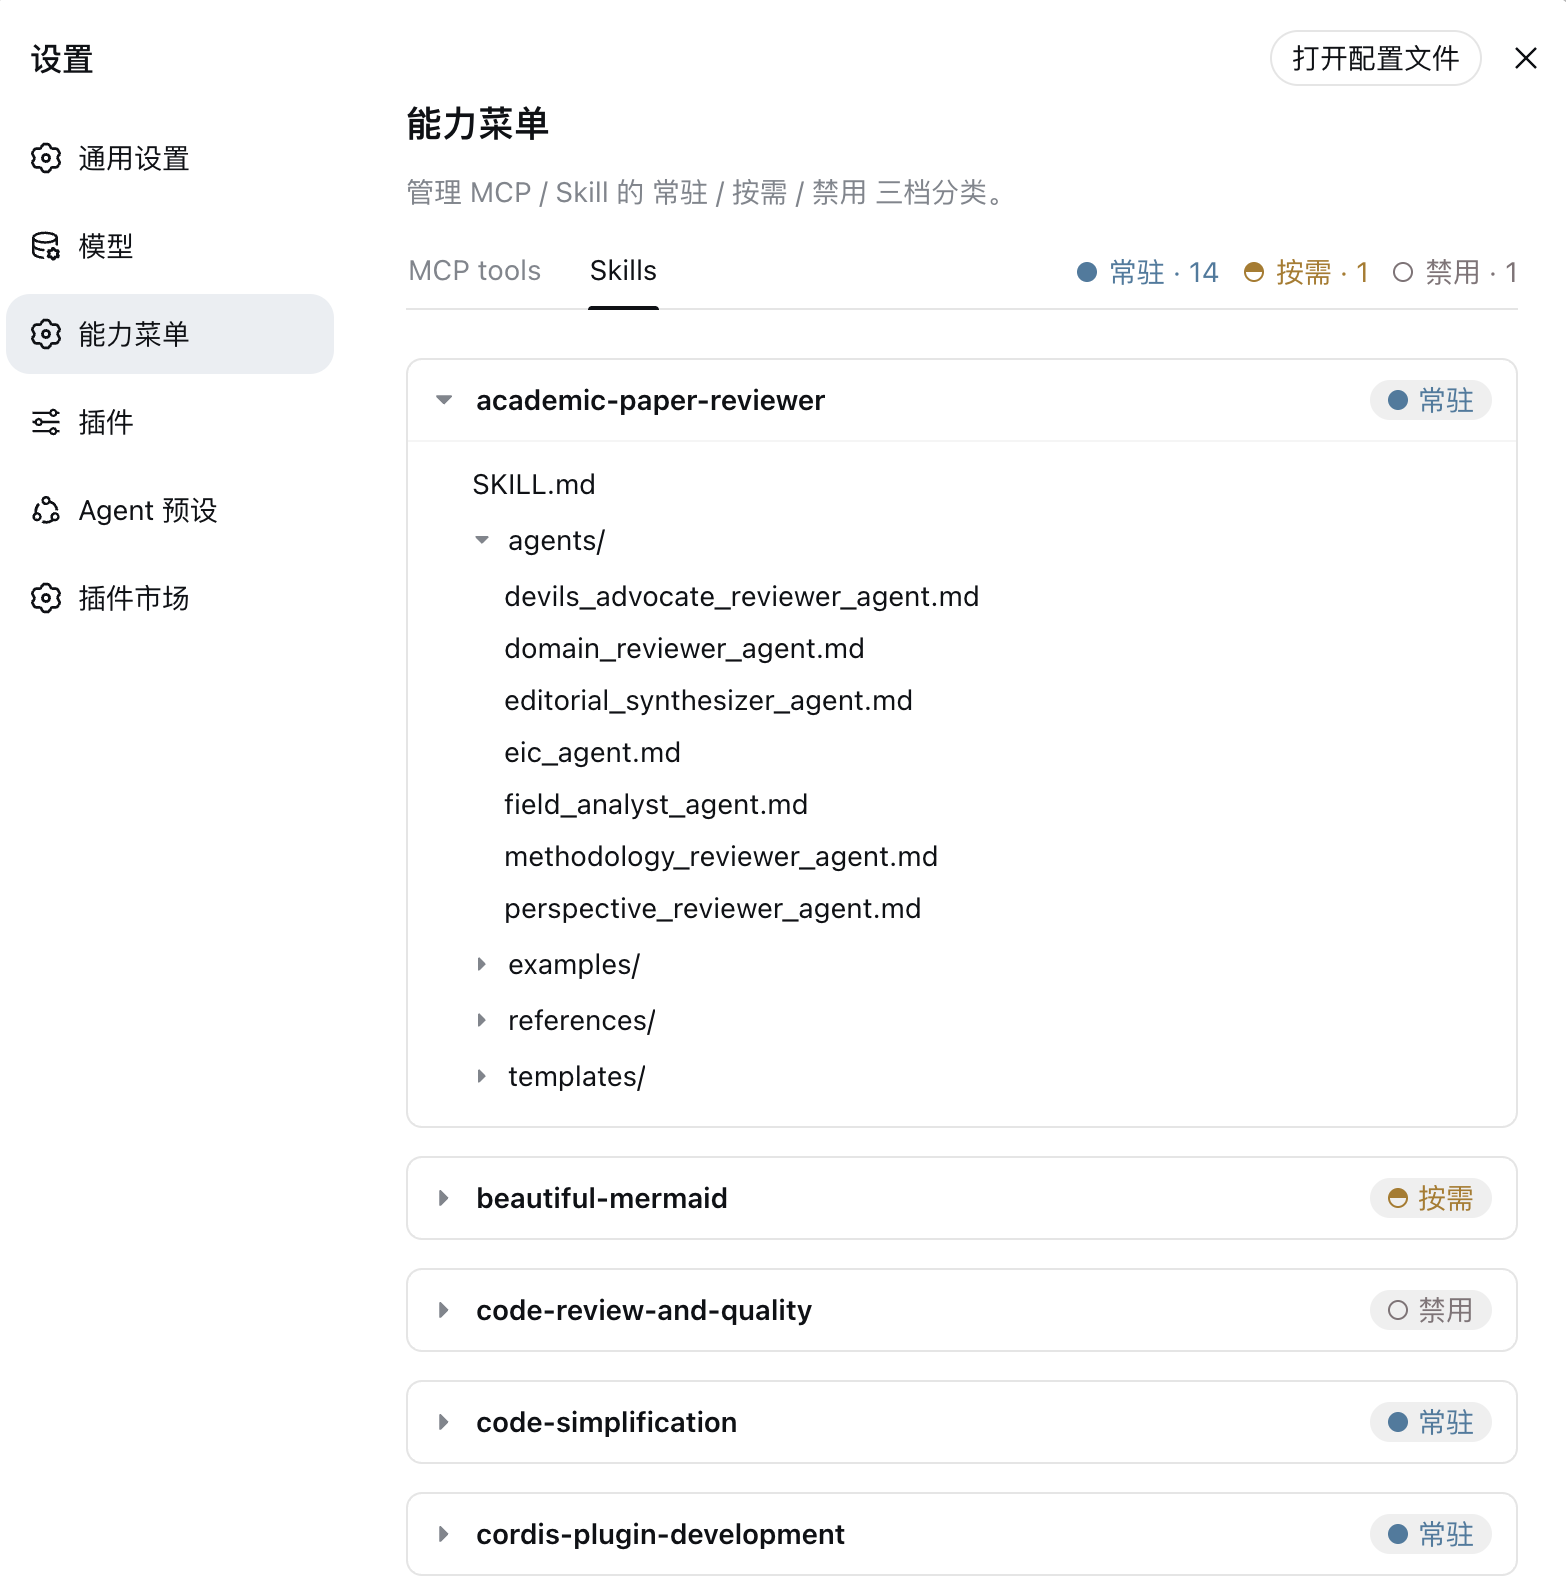
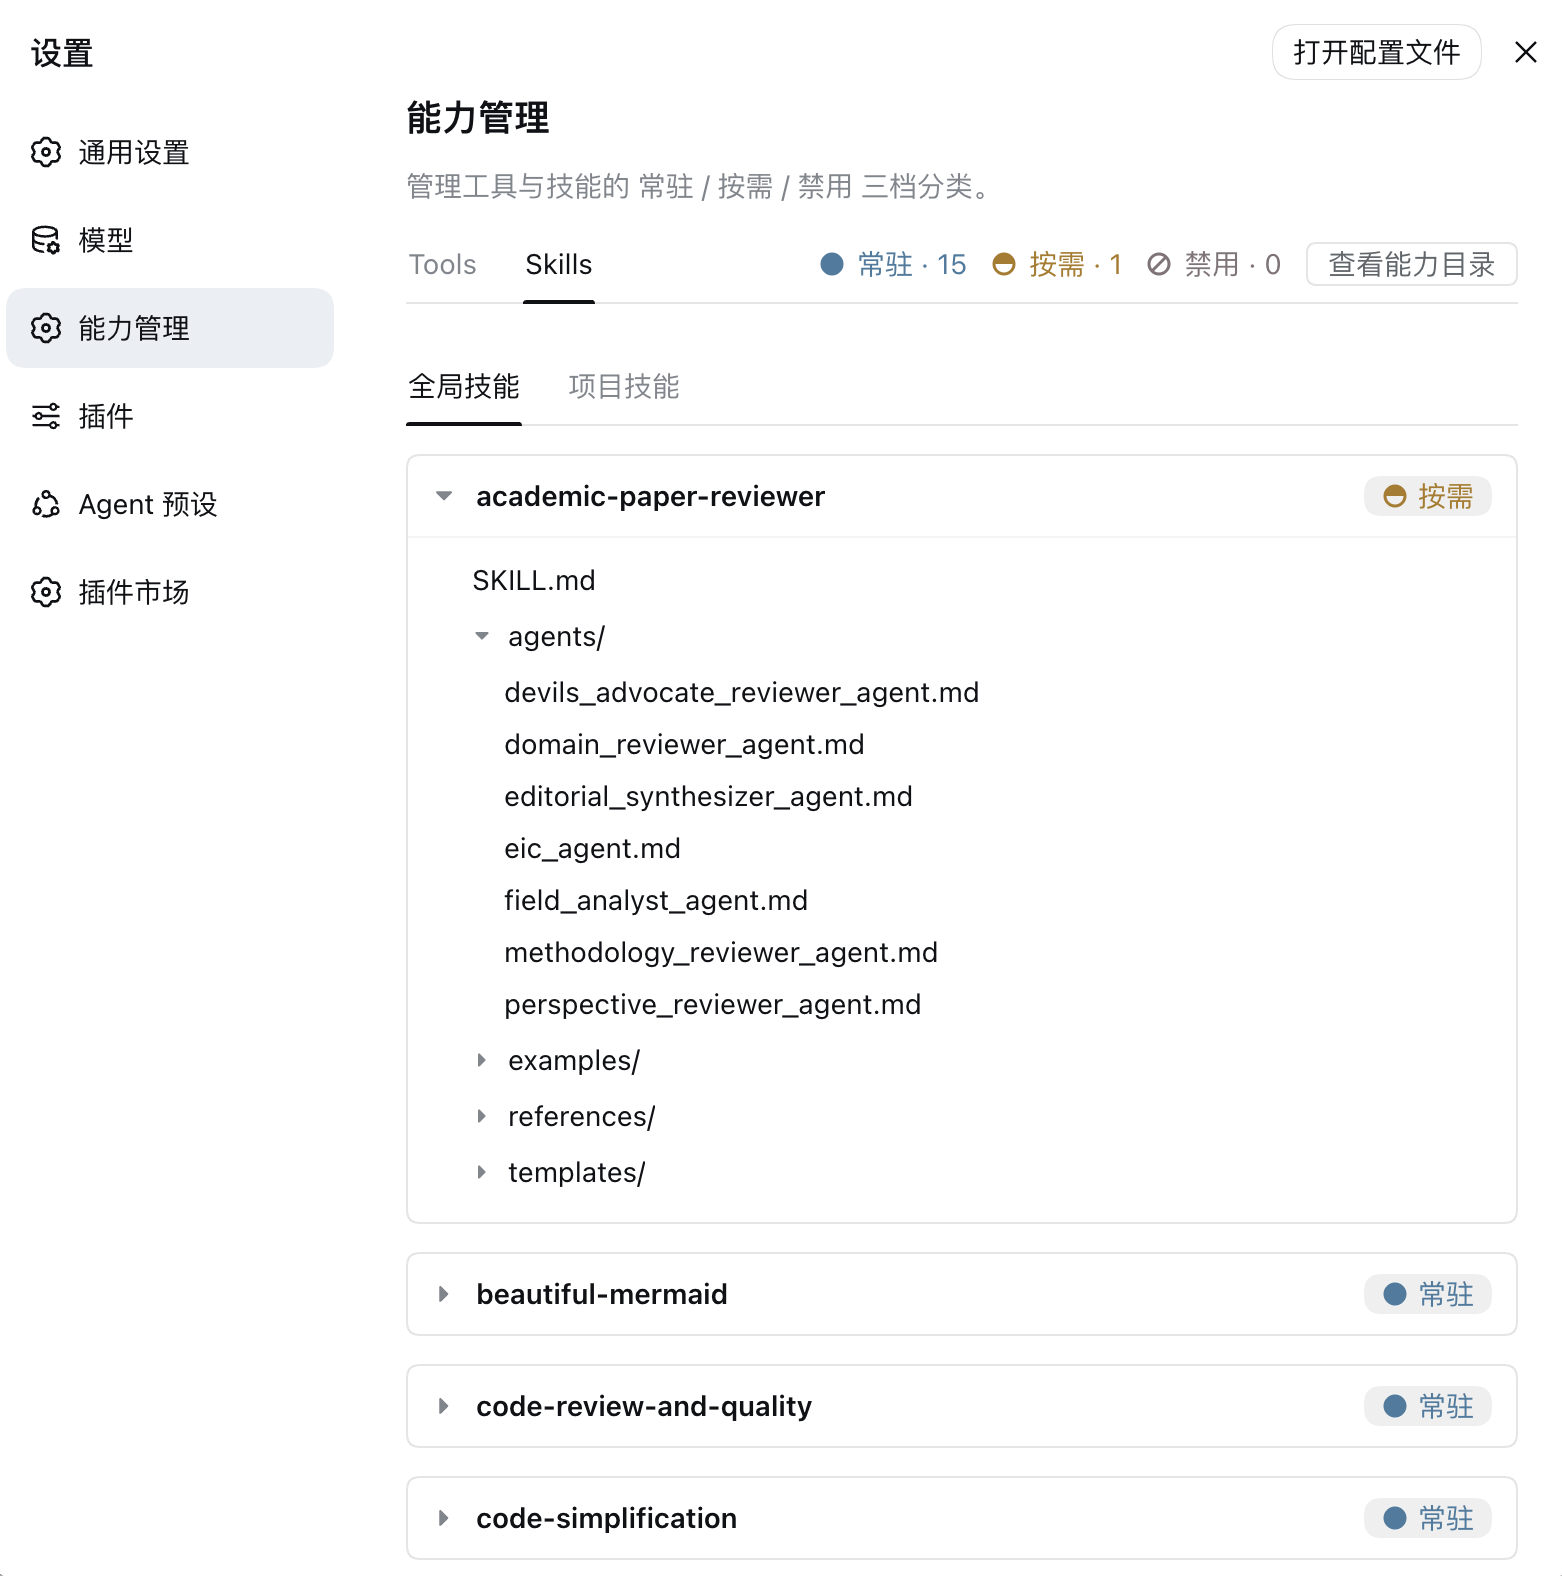
docs: 替换并扩展示意图: Tools/Skills/查看能力目录 四张新图; 修正截图文件名(去前导空格)

diff --git a/README.md b/README.md
@@ -51,8 +51,12 @@ Capability 是本插件引入的上位概念：Tool / Skill 是不同类型的 c
 ### 能力管理
 
 <p align="center">
-  <img src="assets/screenshot-mcp-tools.png" alt="工具 tab" width="45%"/>
-  <img src="assets/screenshot-skills.png" alt="Skills tab" width="45%"/>
+  <img src="assets/screenshot-tools.png" alt="Tools 页" width="48%"/>
+  <img src="assets/screenshot-skills.png" alt="Skills 页" width="48%"/>
+</p>
+<p align="center">
+  <img src="assets/screenshot-policy.png" alt="查看能力目录 · 三档策略配置" width="48%"/>
+  <img src="assets/screenshot-catalog.png" alt="查看能力目录 · 按需能力目录" width="48%"/>
 </p>
 
 安装后，「设置 / 通用设置」下出现「能力管理」tab（位于「模型」与「插件」之间），用于可视化查看和调整暴露策略，改动即时生效、无需重启：

diff --git a/README.en.md b/README.en.md
@@ -51,8 +51,12 @@ The model gets two meta tools:
 ### Capability Management
 
 <p align="center">
-  <img src="assets/screenshot-mcp-tools.png" alt="Tools tab" width="45%"/>
-  <img src="assets/screenshot-skills.png" alt="Skills tab" width="45%"/>
+  <img src="assets/screenshot-tools.png" alt="Tools tab" width="48%"/>
+  <img src="assets/screenshot-skills.png" alt="Skills tab" width="48%"/>
+</p>
+<p align="center">
+  <img src="assets/screenshot-policy.png" alt="View capability catalog · Policy (effective)" width="48%"/>
+  <img src="assets/screenshot-catalog.png" alt="View capability catalog · On-demand catalog" width="48%"/>
 </p>
 
 Once installed, a Capability Management tab appears under Settings → General Settings (between "Model" and "Plugins"). It lets you visualize and adjust the exposure policy; changes apply immediately, no restart needed:
